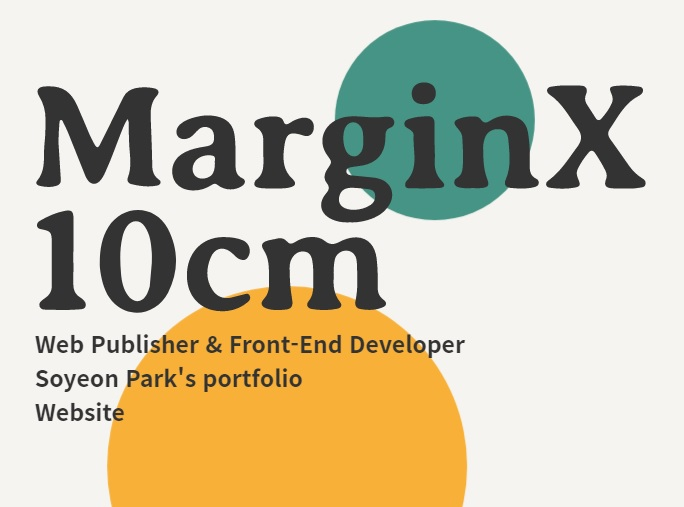
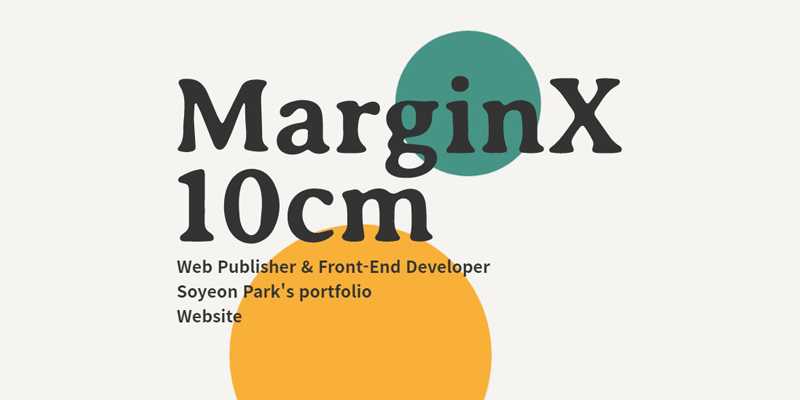
Test sub page

Changed region(s): [[0.0307, 0.03, 0.9518, 1.0]]

diff --git a/css/style.css b/css/style.css
@@ -23,50 +23,48 @@ body{
   100%{ transform: translate(0px, 0px); }
 }
 .cursor{ position: fixed; z-index: 10000; width: 30px; height: 30px; border-radius: 50%; background-color: teal;
-  transition: width 0.3s, height 0.3s, background-color 0.3s, border 0.2s; }
+  transition: width 0.3s, height 0.3s, background-color 0.3s, border 0.2s;}
 .cursor.into{ width: 100px; height: 100px; border: 1px solid rgba(255,255,255,0.7);
   background-color: rgba(255,255,255,0.3)}
 
 header { position: fixed; z-index: 999; background-color: transparent; width:100%; height: 500px; transition: height 0.5s;}
-header.sm { height: 70px; border-bottom: 1px solid rgba(0,0,0,0.1);} 
+header.sm { height: 70px; border-bottom: 1px solid rgba(0,0,0,0.1);}
 header .main-logo{ max-width:800px; width: 80%; position: absolute; left: 50%; top: 180px; transform: translateX(-50%); transition: all 0.5s;}
 header .main-logo.sm{ width:150px; position: absolute; top: 5px; left: 50%; transform: translateX(-50%);}
 header .header-left-menu{float: left;}
-header .header-right-menu{float: right; }
+header .header-right-menu{float: right;}
 header .gnb-wrap{ margin: 19px 100px; font-size: 0;}
 .gnb-wrap .gnb-item{ display: inline-block; color: #f09e32; font-size: 25px; font-weight: 700;}
 .header-left-menu .gnb-wrap .gnb-item{ margin-right:100px;}
 .header-right-menu .gnb-wrap .gnb-item{ margin-left:100px;}
 
-section { position: relative; max-width: 1921px; margin: auto; min-height: 100vh; padding-top: 100px;}
+section { position: relative; width:100%; max-width: 1921px; margin: auto; min-height: 100vh; padding-top: 100px;}
 .section-title{font-size: 50px; font-weight: 900;}
 .section-subtitle{font-size: 25px; font-weight: 700;}
 
-#hero{ height: 1500px; margin-bottom: 500px;}
+#hero{ height: 1240px; margin-bottom: 400px;}
 #hero .hero-circle{ position: absolute;}
 #hero .hero-circle.circle-big{ width:360px; height: 360px; border-radius: 50%;
   top: 25%; left:20%;  background-color: #f8b039; animation: circleRound 3.5s linear infinite;}
 #hero .hero-circle.circle-sm{ width:200px; height: 200px; border-radius: 50%;
   top: 7%; right: 25%; background-color: #459485; animation: circleRound 3.3s linear reverse infinite;}
-#hero .hero-text{ position: absolute; top:40%; left: 18.5%; font-size: 23px; font-weight: bold;}
+#hero .hero-text{ position: absolute; top: 41%; left: 18.5%; font-size: 23px; font-weight: bold;}
 .greeting-text{opacity: 0; transition: opacity 1s; width: 100%; text-align: center; font-size: 5.5vw; font-weight: 900; letter-spacing: -1px;
   word-spacing: -6px; position: absolute; bottom: 0;}
 
 #about{opacity: 0; transition: opacity 1s; margin-bottom: 300px;}
-#about .about-text-box{width: 45%; max-width: 500px; position: absolute; z-index: 3; top: 25%; right: 53%; line-height: 1.8;}
+#about .about-text-box{width: 45%; max-width: 500px; position: absolute; z-index: 3; top: 25%; left: 10%; right: 53%; line-height: 1.8;}
 .about-txt-box .about-description{ margin-top: 10px; color: #534b4b;}
 #about .my-photo-wrap{ float: right; width: 50%; position: absolute; right: 0; overflow: hidden;}
 
 #skill {height: 1500px; margin-bottom: 300px;}
-#skill .my-skill{ position: absolute; background-repeat: no-repeat; background-position: center; background-size: cover; }
-#skill .skill-text{ display: block; position: absolute; }
+#skill .my-skill{ position: absolute; background-repeat: no-repeat; background-position: center; background-size: cover;}
+#skill .skill-text{ display: block; position: absolute;}
 .skill-text .skill-title{ color:#e4e4e4; line-height: 1; font-size: 42px; font-weight: 700;}
 .skill-text .skill-desc{ font-size: 18px; font-weight: 500;}
-#skill .skill-css{ z-index: 0; top: 231px; left: 59%; width: 200px; height: 200px; border-radius: 50%;
-  background-color: #6fbee0;}
+#skill .skill-css{ z-index: 0; top: 231px; left: 59%; width: 200px; height: 200px; border-radius: 50%; background-color: #6fbee0;}
 #skill .css-text{ left: 25px; top: 10px;}
-#skill .skill-html{ z-index: 1; bottom: 28px; left: 0; width: 50%; height: 700px;
-  background: url(../images/sunset1.jpg)no-repeat right bottom / cover; }
+#skill .skill-html{ z-index: 1; bottom: 28px; left: 0; width: 50%; height: 700px; background: url(../images/sunset1.jpg)no-repeat right bottom / cover;}
 #skill .html-text{ left: 20px; bottom: 10%;}
 #skill .skill-vue{
   z-index: 2;
@@ -74,7 +72,7 @@ section { position: relative; max-width: 1921px; margin: auto; min-height: 100vh
   left: 35%;
   min-width: 400px;
   width: 30%; height: 600px;
-  background: url(../images/vue.jpg)no-repeat right 0px / cover; } 
+  background: url(../images/vue.jpg)no-repeat right 0px / cover;} 
 #skill .vue-text{ right: 20px; bottom: 30%;}
 #skill .skill-js{ z-index: 3; top: 194px; left: 15%; min-width: 550px;
   width: 40%; height: 500px;
@@ -84,7 +82,7 @@ section { position: relative; max-width: 1921px; margin: auto; min-height: 100vh
 #portfolio .portfolio-title-box{ position: relative; z-index: -1; font-size: 11vw; font-weight: 900; letter-spacing: -1px;}
 .portfolio-title-box .portfolio-sub-title{ position: absolute; font-size: 5vw; font-weight: 900; }
 .portfolio-title-box .portfolio-title{ opacity: 0.9; position: absolute; top: 0; color: #f8b039;}
-#portfolio .swiper-container{ width: 55%; height: 700px; position: absolute; bottom: 0; right: 0;}
+#portfolio .slide-container{ width: 55%; height: 700px; position: absolute; bottom: 0; right: 0;}
 
 #portfolio .portfolio1{ background-color: #df514c; }
 #portfolio .portfolio2{ background-color: #f3cb17; }
@@ -125,13 +123,14 @@ footer{ width: 100%; height: 100px; border-top: 1px solid #333333;}
   .gnb-M-container .gnb-M-wrap{ position: absolute; top:50%; left: 50%; transform: translate(-50%, -50%); font-size: 24px; font-weight: bold; color: #fafafa;}
   .gnb-M-wrap .gnb-M-item{ margin-top: 100px;}
   .gnb-M-wrap .gnb-M-item:first-child{margin-top: 0;}
-}
-@media (max-width: 768px) {
-  #hero, #about, #skill{ height: 1000px; margin-bottom: 300px;} 
-  #hero .hero-text{ top: 430px; left: 12%;}
-  .greeting-text{ font-size: 52px;}
   #about .about-text-box{width: 77%; top: 0; left: 10px;}
   .about-text-box .mobile-circle{position: absolute; z-index: -1; bottom: 0; right: 0; width: 200px; height: 200px; border-radius: 50%; background-color: #f6f4f0;}
-  #about .my-photo-wrap{ width: 60%; margin-top: 130px; max-width: 500px;}
+  #about .my-photo-wrap{ width: 60%; margin-top: 130px; min-width: 300px; max-width: 500px;}
   
+}
+@media (max-width: 768px) {
+  #hero, #about, #skill{ height: 1300px; margin-bottom: 300px;} 
+  #hero .hero-text{ top: 430px; left: 12%;}
+  .greeting-text{ font-size: 52px;}
+
 }

diff --git a/index.html b/index.html
@@ -18,10 +18,6 @@
     />
     <meta property="og:image" content="images/og_img.jpg" />
     <title>좌우간격 10cm | 박소연 포트폴리오</title>
-    <script src="https://unpkg.com/swiper/swiper-bundle.js"></script>
-    <script src="https://unpkg.com/swiper/swiper-bundle.min.js"></script>
-    <link rel="stylesheet" href="https://unpkg.com/swiper/swiper-bundle.css">
-<link rel="stylesheet" href="https://unpkg.com/swiper/swiper-bundle.min.css">
     <link rel="stylesheet" href="css/reset.css" />
     <link rel="stylesheet" href="css/style.css" />
   </head>
@@ -55,8 +51,8 @@
           </div>
           <div class="gnb-M-container">
             <ul class="gnb-M-wrap">
-              <li class="gnb-M-item"><a href="#about">ABOUT</a></li>
-              <li class="gnb-M-item"><a href="#skill">SKILL</a></li>
+              <li class="gnb-M-item"><a href="https://jade-sy.github.io/marginX/test/test.html">ABOUT</a></li>
+              <li class="gnb-M-item"><a href="https://jade-sy.github.io/marginX/test1.html">SKILL</a></li>
               <li class="gnb-M-item"><a href="#portfolio">PORTFOLIO</a></li>
               <li class="gnb-M-item"><a href="#contact">CONTACT</a></li>
             </ul>
@@ -114,11 +110,11 @@
       <section id="portfolio" class="section4">
         <div class="portfolio-title-box"><p class="portfolio-sub-title">Here is my</p>
           <p class="portfolio-title">Portfolio</p></div>
-        <div class="swiper-container">
-          <div class="swiper-wrapper">
-              <div class="portfolio1 swiper-slide">PF 1</div>
-              <div class="portfolio2 swiper-slide">PF 2</div>
-              <div class="portfolio3 swiper-slide">PF 3</div>
+        <div class="slide-container">
+          <div class="slide-wrapper">
+              <div class="portfolio1 slide-con">PF 1</div>
+              <div class="portfolio2 slide-con">PF 2</div>
+              <div class="portfolio3 slide-con">PF 3</div>
           </div>
           <div class="swiper-pagination"></div>
       </div>
@@ -136,6 +132,5 @@
     <script src="js/main.js"></script>
     <script src="js/mouseEffect.js"></script>
     <script src="js/scroll.js"></script>
-    <script src="js/swiper.js"></script>
   </body>
 </html>

diff --git a/js/mouseEffect.js b/js/mouseEffect.js
@@ -1,10 +1,11 @@
 window.addEventListener('mousemove', function (e) {
-  var cursor = document.querySelector('.cursor')
+  const cursor = document.querySelector('.cursor')
   cursor.style.left = e.clientX + 'px'
   cursor.style.top = e.clientY + 'px'
-  // if (e.offsetX > 50 && e.offsetY > 50) {
-  //   cursor.classList.add('into')
-  // } else {
-  //   cursor.classList.remove('into')
-  // }
+
+  if (e.offsetX > 20 && e.offsetY > 20) {
+    cursor.classList.add('into')
+  } else {
+    cursor.classList.remove('into')
+  }
 })

diff --git a/js/scroll.js b/js/scroll.js
@@ -42,7 +42,7 @@
 
         if (scrollVal > 3236 && scrollVal < 4540) {
             skillCss.style.top = -1070 + Math.floor(scrollVal * 0.4) + 'px'
-            skillHtml.style.bottom = -1590 + Math.floor(scrollVal * 0.5) + 'px'
+            skillHtml.style.bottom = -1290 + Math.floor(scrollVal * 0.5) + 'px'
             skillJs.style.top = Math.floor(scrollVal * 0.06) + 'px'
             skillVue.style.top = Math.floor(scrollVal * 0.13) + 'px'
         }

diff --git a/test/test.html b/test/test.html
@@ -1,0 +1,11 @@
+<!DOCTYPE html>
+<html lang="ko">
+<head>
+  <meta charset="UTF-8">
+  <meta name="viewport" content="width=device-width, initial-scale=1.0">
+  <title>Test Page</title>
+</head>
+<body>
+  <h1>Test Page in test folder</h1>
+</body>
+</html>

diff --git a/test1.html b/test1.html
@@ -1,0 +1,11 @@
+<!DOCTYPE html>
+<html lang="ko">
+<head>
+  <meta charset="UTF-8">
+  <meta name="viewport" content="width=device-width, initial-scale=1.0">
+  <title>Test Page</title>
+</head>
+<body>
+  <h1>Test Page</h1>
+</body>
+</html>
